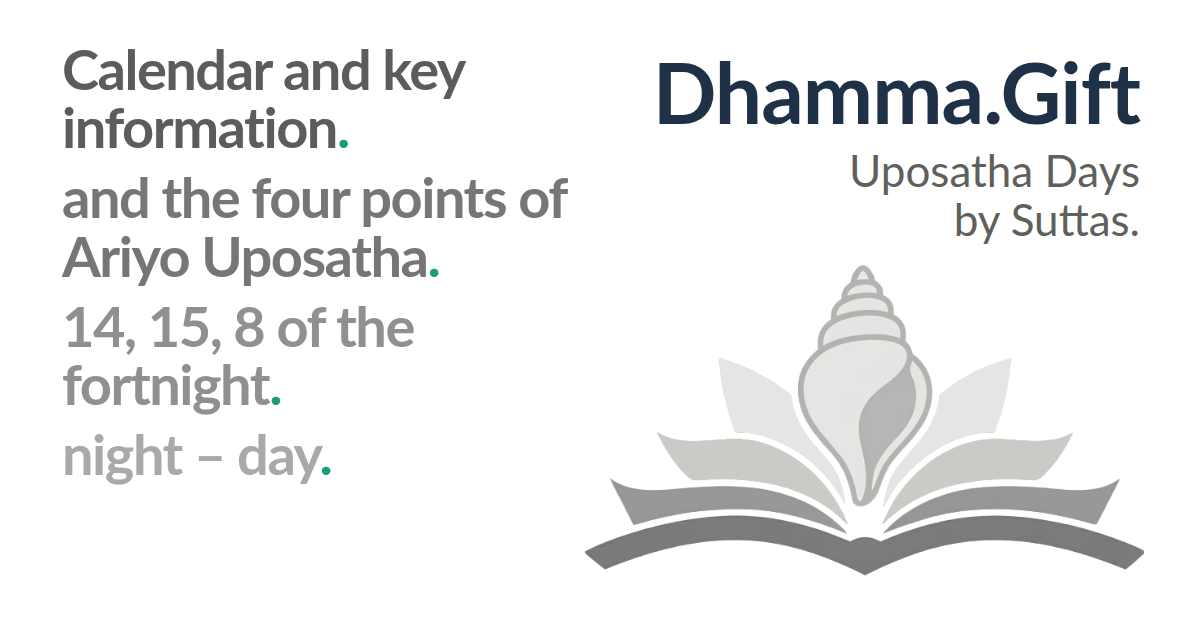
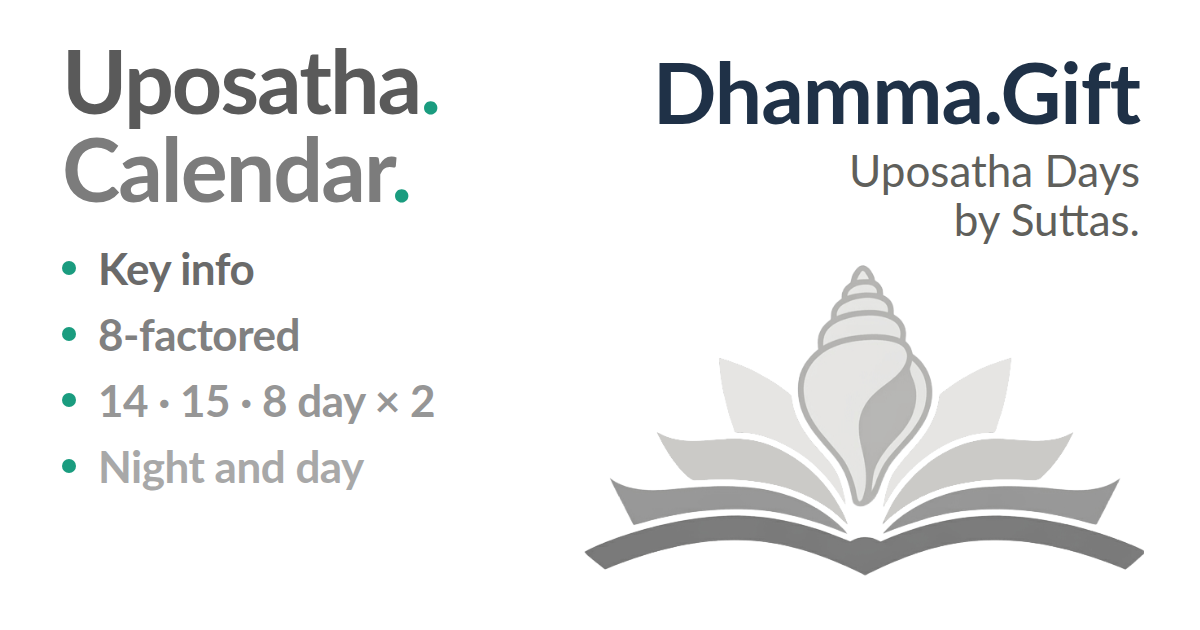
Uposatha link preview: one English card (Uposatha Calendar: key info, 8-factored, 14 15 8 x2, night and day); no ?lang variant
Claude-Session: https://claude.ai/code/session_01E4yKH26RV8vZ6cWu3j8v2W

Changed region(s): [[0.0308, 0.0603, 0.4933, 0.4524], [0.0308, 0.4825, 0.37, 0.6635], [0.0308, 0.6937, 0.3083, 0.7841]]

diff --git a/dg-fastify.js b/dg-fastify.js
@@ -230,11 +230,10 @@ const HTML_ASSET_URL_ROOTS = {
 // cache can only be re-validated with a full download". This keeps must-revalidate's
 // guarantee (client always asks the server first) while letting an unchanged page answer
 // with a 304 instead of re-sending the whole document.
-function sendVersionedHtml(req, reply, absHtmlPath, statusCode = 200, transform) {
+function sendVersionedHtml(req, reply, absHtmlPath, statusCode = 200) {
     let html;
     try { html = fsSync.readFileSync(absHtmlPath, 'utf8'); }
     catch { return reply.code(404).send(); }
-    if (transform) html = transform(html);
     const rewritten = html.replace(
         // Also stamps the lazy loadScript('/reader/megareader.js') / ('/spa/toc.js') calls in
         // search/index.html — otherwise a 24h-cached copy could outlive the HTML that expects a
@@ -1434,39 +1433,7 @@ app.get('/config/sync-config.json', (req, res) => sendFile(req, res, path.join(_
 // Custom Google Search (Programmable Search Engine) — the one-page replacement for legacy cse.php
 // The Uposatha calendar as a page of its own (also embedded in the docs); the hyphenated path cannot be
 // mistaken for a Pali search word the way /uposatha could.
-// Link previews (Open Graph / Twitter): the crawlers read the HTML as served, so the Russian card is chosen here by ?lang=ru
-// (the page's own share button adds it for the Russian version).
-const UPOSATHA_RU_META = [
-    ['Uposatha Days by Suttas. Dhamma.Gift', 'Дни упосатхи по суттам. Dhamma.Gift'],
-    ['Which days, when to begin, how to keep the Uposatha, from the suttas: with exact times for your place.', 'В какие дни, когда начинать, как соблюдать упосатху, по суттам: с точным временем для вашего места.'],
-    ['og-uposatha-en.png', 'og-uposatha-ru.png'],
-    ['Calendar and key information, and the four points of Ariyo Uposatha: 14, 15, 8 of the fortnight, night and day. Dhamma.Gift, Uposatha Days', 'Календарь и важная информация, и четыре пункта Ariyo Uposatha: 14, 15, 8 половины месяца, ночь и день. Dhamma.Gift, дни упосатхи'],
-];
-app.get('/uposatha-calendar', (req, res) => sendVersionedHtml(req, res, path.join(__dirname, 'public', 'uposatha-calendar.html'), 200,
-    (req.query && req.query.lang === 'ru') ? (html) => UPOSATHA_RU_META.reduce((h, [a, b]) => h.split(a).join(b), html) : undefined));
-app.get('/uposatha-calendar.webmanifest', (req, res) => sendFile(req, res, path.join(__dirname, 'public', 'uposatha-calendar.webmanifest'), 'application/manifest+json'));
-// Subscription feed for Google / Apple calendars. Stateless: everything the feed needs is in the query string, nothing is stored.
-const uposathaCore = require('./public/overrides/js/uposatha-core.js');
-const uposathaFeedCache = new Map();
-app.get('/uposatha.ics', (req, reply) => {
-    const q = req.query || {};
-    const num = (v, lo, hi) => { const n = Number(v); return Number.isFinite(n) && n >= lo && n <= hi ? n : null; };
-    let tz = String(q.tz || 'UTC');
-    try { new Intl.DateTimeFormat('en', { timeZone: tz }); } catch { return reply.code(400).type('text/plain').send('bad tz'); }
-    const lat = num(q.lat, -90, 90), lon = num(q.lon, -180, 180);
-    const opts = {
-        lang: q.lang === 'ru' ? 'ru' : 'en', tz, sutta: q.scheme !== 'modern', loc: lat !== null && lon !== null ? { lat: Math.round(lat * 100) / 100, lon: Math.round(lon * 100) / 100 } : null,
-        rem: { lead: num(q.lead, 1, 72) || 24, d8: q.d8 !== '0', d14: q.d14 !== '0', d15: q.d15 === '1' }, days: 400, feed: true,
-    };
-    const key = JSON.stringify(opts) + new Date().toISOString().slice(0, 13); // a computed feed is reused for an hour
-    let body = uposathaFeedCache.get(key);
-    if (!body) {
-        body = uposathaCore.buildIcs(opts);
-        if (uposathaFeedCache.size > 300) uposathaFeedCache.clear();
-        uposathaFeedCache.set(key, body);
-    }
-    return reply.type('text/calendar; charset=utf-8').header('cache-control', 'public, max-age=3600').send(body);
-});
+app.get('/uposatha-calendar', (req, res) => sendVersionedHtml(req, res, path.join(__dirname, 'public', 'uposatha-calendar.html')));
 app.get('/cse', (req, res) => sendVersionedHtml(req, res, path.join(__dirname, 'public', 'cse.html')));
 app.get('/api/patimokkha-fragment/:side', (req, res) => {
     if (req.params.side !== 'bu' && req.params.side !== 'bi') return res.code(404).send();

diff --git a/public/uposatha-calendar.html b/public/uposatha-calendar.html
@@ -17,7 +17,7 @@
 <meta property="og:image" content="https://dhamma.gift/assets/img/og-uposatha-en.png">
 <meta property="og:image:width" content="1200">
 <meta property="og:image:height" content="630">
-<meta property="og:image:alt" content="Calendar and key information, and the four points of Ariyo Uposatha: 14, 15, 8 of the fortnight, night and day. Dhamma.Gift, Uposatha Days">
+<meta property="og:image:alt" content="Uposatha Calendar: key info, 8-factored, 14 · 15 · 8 day × 2, night and day. Dhamma.Gift, Uposatha Days by Suttas.">
 <meta name="twitter:card" content="summary_large_image">
 <meta name="twitter:title" content="Uposatha Days by Suttas. Dhamma.Gift">
 <meta name="twitter:description" content="Which days, when to begin, how to keep the Uposatha, from the suttas: with exact times for your place.">
